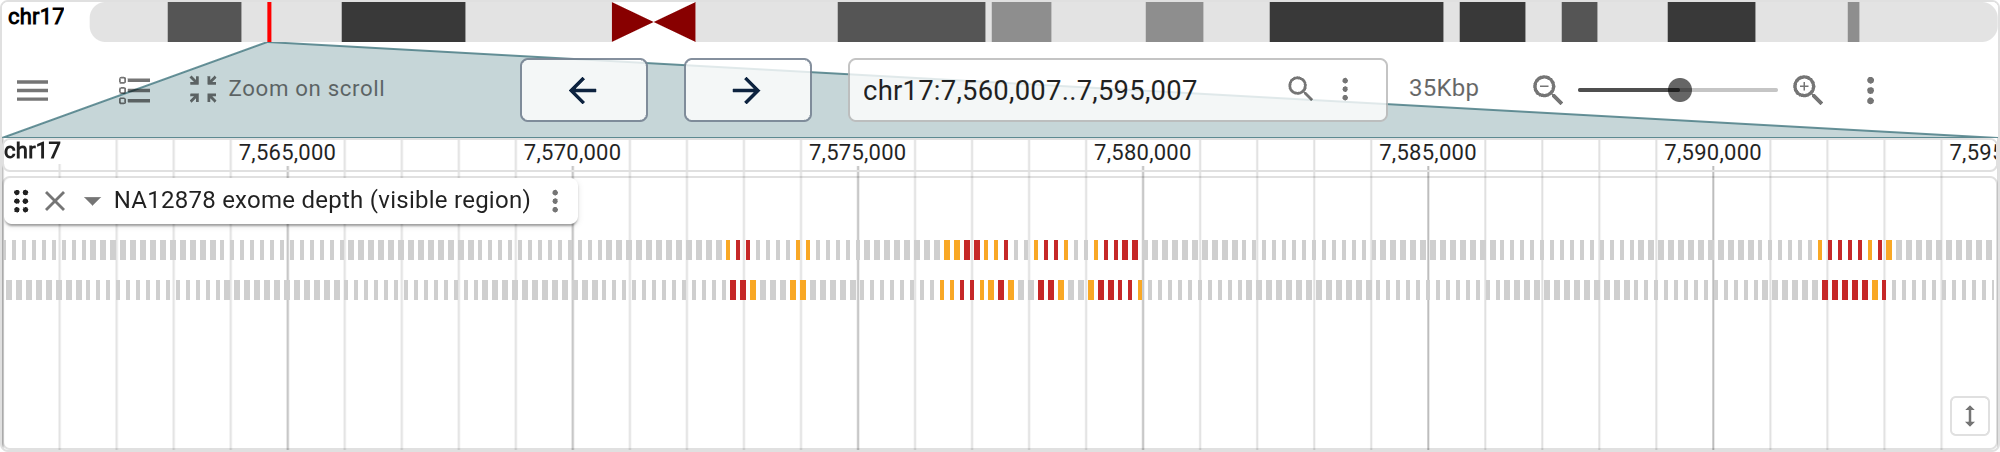
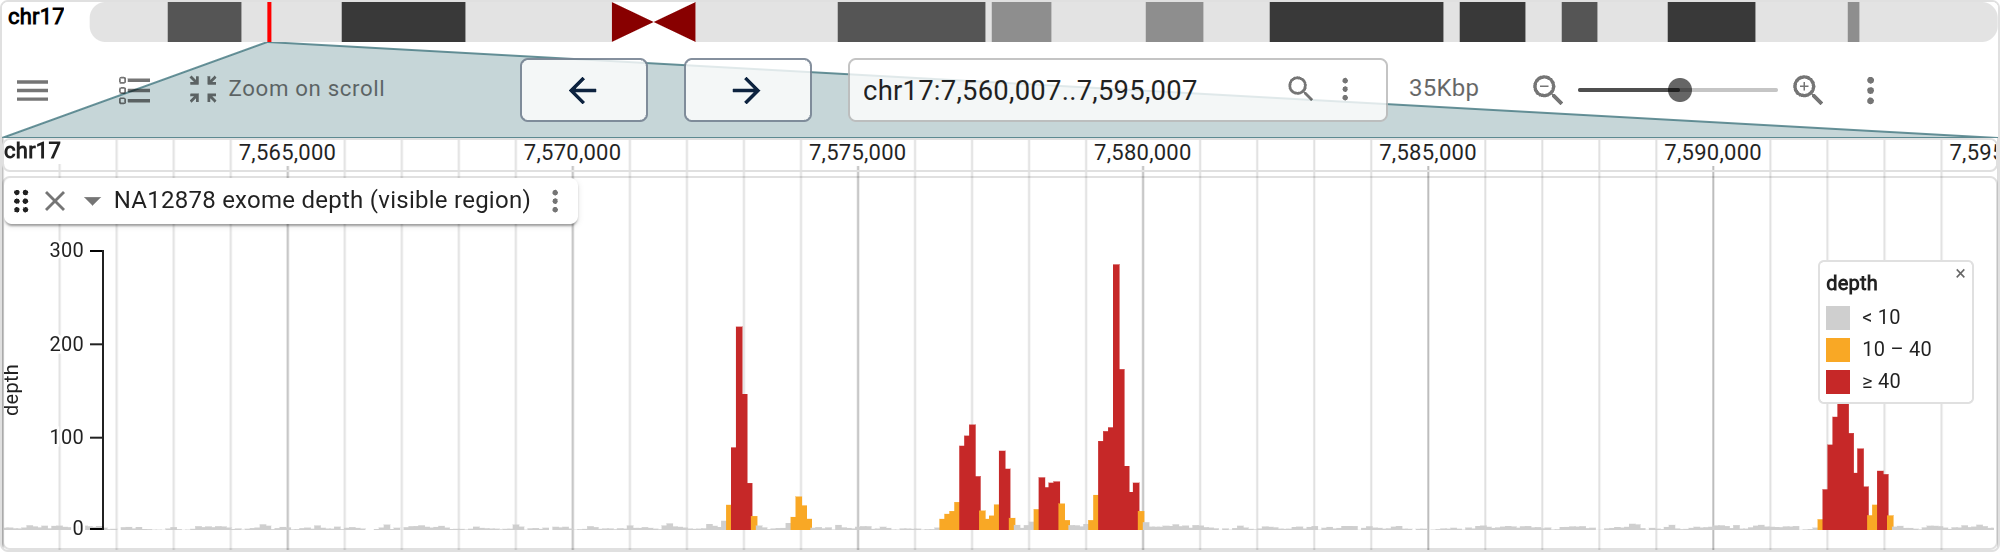
Notebooks 02, 05 and 10 plot through a LinearMarkDisplay too
The CpG islands are bars of GC% coloured by obs/exp CpG up close and, past
200 bp per pixel, a count per zoom-following bin, so the notebook's closing
update shows 17p's island density from the same track. The two depth notebooks
share one DEPTH plot: bars on a value axis with a threshold scale at 10 and 40
reads, in place of the three-way jexl ternary each carried.

diff --git a/scripts/build_examples.py b/scripts/build_examples.py
@@ -66,6 +66,26 @@ def save(name, cells):
     print("wrote examples/" + name)
 
 
+# The depth plot notebooks 05 and 10 share: bars on a value axis, coloured by a
+# threshold scale whose cuts the legend lists.
+DEPTH = (
+    "DEPTH = {\n"
+    '    "type": "LinearMarkDisplay",\n'
+    '    "scales": {"y": {"title": "depth"}},\n'
+    '    "marks": [{\n'
+    '        "shape": "bar",\n'
+    '        "encoding": {\n'
+    '            "y": "depth",\n'
+    '            "color": {\n'
+    '                "field": "depth", "scale": "threshold",\n'
+    '                "domain": [10, 40],\n'
+    '                "range": ["#cfcfcf", "#f9a825", "#c62828"],\n'
+    "            },\n"
+    "        },\n"
+    "    }],\n"
+    "}\n"
+)
+
 # --- 01 quickstart ----------------------------------------------------------
 save(
     "01_quickstart.ipynb",
@@ -167,9 +187,13 @@ save(
         ),
         new_markdown_cell(
             "## Both on the genome\n\n"
-            "One `features_track` per frame. Islands are colored by GC% — a column "
-            "that rides along and shows in each feature's details; any column "
-            "does. This lands on *TP53*."
+            "One `features_track` per frame. The islands get a `LinearMarkDisplay`, "
+            "JBrowse's grammar of graphics over the frame's columns: a `bar` per "
+            "island with `perGc` on the value axis, coloured by a linear ramp over "
+            "`obsExp`, and a second mark that takes over past 200 bp per pixel — a "
+            "`bin` whose width follows the zoom and an `aggregate` count — so zooming "
+            "out from *TP53* to the whole chromosome turns the same track into an "
+            "island density, from one fetch. The shores are plain features under it."
         ),
         new_code_cell(
             "from jbrowse_anywidget import LinearGenomeView, features_track\n\n"
@@ -183,14 +207,43 @@ save(
             '    location="17:7,660,000..7,700,000",\n'
             "    tracks=[\n"
             "        features_track(\n"
-            '            islands, name="CpG islands (by GC%)",\n'
-            "            color=\"jexl:get(feature,'perGc') > 65 ? '#00695c' : '#4db6ac'\",\n"
+            '            islands, name="CpG islands",\n'
+            "            displays=[{\n"
+            '                "type": "LinearMarkDisplay",\n'
+            '                "marks": [\n'
+            "                    {\n"
+            '                        "shape": "bar",\n'
+            '                        "encoding": {\n'
+            '                            "y": "perGc",\n'
+            '                            "color": {"field": "obsExp", "scale": "linear", "title": "obs/exp CpG"},\n'
+            "                        },\n"
+            '                        "maxBpPerPx": 200,\n'
+            "                    },\n"
+            "                    {\n"
+            '                        "shape": "bar",\n'
+            '                        "transform": [\n'
+            '                            {"type": "bin", "step": "auto"},\n'
+            '                            {"type": "aggregate", "ops": [{"op": "count"}]},\n'
+            "                        ],\n"
+            '                        "encoding": {"y": "count", "color": "#00695c"},\n'
+            '                        "minBpPerPx": 200,\n'
+            "                    },\n"
+            "                ],\n"
+            "            }],\n"
             "        ),\n"
             '        features_track(shores, name="CpG shores", color="#f9a825"),\n'
             "    ],\n"
             ")\n"
             "view"
         ),
+        new_markdown_cell(
+            "## Zoom out, and the same track is a density\n\n"
+            "Past 200 bp per pixel the first mark is off and the second draws: "
+            "islands counted per bin, the bin width chosen from the zoom, with "
+            "no second track and no second fetch. Across the short arm the "
+            "count follows the gene-dense bands."
+        ),
+        new_code_cell('view.update(location="17:1..25,000,000")'),
     ],
 )
 
@@ -390,21 +443,21 @@ save(
         new_markdown_cell(
             "## See it on hg19, opened at the gene by name\n\n"
             '`fetch_hub("hg19")` brings the genome and a gene-name search index, '
-            'so `location="BRCA1"` just works. Exome capture concentrates reads '
-            "on the exons — the depth track peaks there and drops between."
+            'so `location="BRCA1"` just works. The `depth` column is a bar per '
+            "bin on a value axis, through a `LinearMarkDisplay` whose threshold "
+            "colour scale cuts at 10 and 40 reads and puts those cuts in the "
+            "legend. Exome capture concentrates reads on the exons — the depth "
+            "peaks there and drops between."
         ),
         new_code_cell(
             "from jbrowse_anywidget import LinearGenomeView, features_track, fetch_hub\n\n"
-            'hg19 = fetch_hub("hg19")\n'
+            'hg19 = fetch_hub("hg19")\n' + DEPTH + "\n"
             "view = LinearGenomeView(\n"
             '    assembly=hg19["assemblies"][0],\n'
             '    aggregateTextSearchAdapters=hg19["aggregateTextSearchAdapters"],\n'
             '    location="BRCA1",\n'
             "    tracks=[\n"
-            "        features_track(\n"
-            '            coverage, name="NA12878 exome depth",\n'
-            "            color=\"jexl:get(feature,'depth') > 40 ? '#c62828' : get(feature,'depth') > 10 ? '#f9a825' : '#cfcfcf'\",\n"
-            "        )\n"
+            '        features_track(coverage, name="NA12878 exome depth", displays=[DEPTH]),\n'
             "    ],\n"
             ")\n"
             "view"
@@ -861,7 +914,8 @@ save(
         new_markdown_cell(
             "## Recompute on every pan\n\n"
             "`on_location` parses the view's locstring and re-renders coverage for "
-            'that window. `view.observe(..., "location")` fires it whenever the '
+            "that window, through the same `DEPTH` mark display as the BAM coverage "
+            'notebook. `view.observe(..., "location")` fires it whenever the '
             "view reports a new region — after a drag in the UI, or after "
             "`view.update(location=...)` lands. A gene-name or whole-chromosome location doesn't parse, and a "
             "window wider than 5 Mb is skipped to keep each per-pan query snappy."
@@ -869,8 +923,7 @@ save(
         new_code_cell(
             "import re\n\n"
             "from jbrowse_anywidget import LinearGenomeView, features_track, fetch_hub\n\n"
-            'hg19 = fetch_hub("hg19")\n'
-            "COLOR = \"jexl:get(feature,'depth') > 40 ? '#c62828' : get(feature,'depth') > 10 ? '#f9a825' : '#cfcfcf'\"\n\n\n"
+            'hg19 = fetch_hub("hg19")\n' + DEPTH + "\n\n"
             "def parse_loc(loc):\n"
             '    m = re.match(r"^\\s*([^:\\s]+)\\s*:\\s*([\\d,]+)\\s*\\.\\.\\s*([\\d,]+)", loc or "")\n'
             '    return (m[1], int(m[2].replace(",", "")), int(m[3].replace(",", ""))) if m else None\n\n\n'
@@ -882,7 +935,7 @@ save(
             "                    coverage(chrom, start, end),\n"
             '                    name="NA12878 exome depth (visible region)",\n'
             '                    track_id="depth",\n'
-            "                    color=COLOR,\n"
+            "                    displays=[DEPTH],\n"
             "                )\n"
             "            ]\n"
             "        )\n\n\n"

diff --git a/README.md b/README.md
@@ -42,11 +42,12 @@ A linear view with a conservation bigWig
 
 ![quickstart: an assembly and a phyloP bigWig](images/01_quickstart.png)
 
-A bioframe interval result dropped onto the genome — CpG islands colored by GC%,
-plus their shores
+A bioframe interval result dropped onto the genome — CpG islands as bars of GC%
+up close and a count per zoom-following bin across the arm, from one mark
+display, plus their shores
 ([02](https://colab.research.google.com/github/GMOD/jbrowse-anywidget/blob/main/examples/02_dataframe_analysis.ipynb)):
 
-![bioframe result: CpG islands colored by GC%, with their shores](images/02_bioframe.png)
+![bioframe result: CpG islands counted per zoom-following bin across 17p, over their shores](images/02_bioframe.png)
 
 GPU-rendered CRAM alignments, from a hub assembly named by string
 ([03](https://colab.research.google.com/github/GMOD/jbrowse-anywidget/blob/main/examples/03_alignments.ipynb)):
@@ -60,7 +61,8 @@ Multi-sample structural variants, one row per sample, colored by cohort
 
 ### Run an analysis, load the result onto the genome
 
-pysam read depth over _BRCA1_, binned and colored by coverage
+pysam read depth over _BRCA1_, binned, drawn as bars on a value axis with a
+threshold colour scale
 ([05](https://colab.research.google.com/github/GMOD/jbrowse-anywidget/blob/main/examples/05_bam_coverage.ipynb)):
 
 ![NA12878 exome depth over BRCA1 from pysam](images/05_bam_coverage.png)

diff --git a/examples/README.md b/examples/README.md
@@ -9,8 +9,10 @@ from this repo, so no local setup is needed).
   two-way location sync between Python and the view.
   [![Open In Colab](https://colab.research.google.com/assets/colab-badge.svg)](https://colab.research.google.com/github/GMOD/jbrowse-anywidget/blob/main/examples/01_quickstart.ipynb)
 - **[02 · bioframe → track](02_dataframe_analysis.ipynb)** — real UCSC CpG
-  islands, one bioframe operation (their shores), both on the genome; any
-  bioframe/pandas frame is one `features_track` call away.
+  islands, one bioframe operation (their shores), both on the genome; the
+  islands are a mark display that plots GC% up close and counts islands per
+  zoom-following bin across the arm. Any bioframe/pandas frame is one
+  `features_track` call away.
   [![Open In Colab](https://colab.research.google.com/assets/colab-badge.svg)](https://colab.research.google.com/github/GMOD/jbrowse-anywidget/blob/main/examples/02_dataframe_analysis.ipynb)
 - **[03 · GPU alignments](03_alignments.ipynb)** — a BAM/CRAM pileup on the GPU,
   colored by pair orientation, soft-clips shown.
